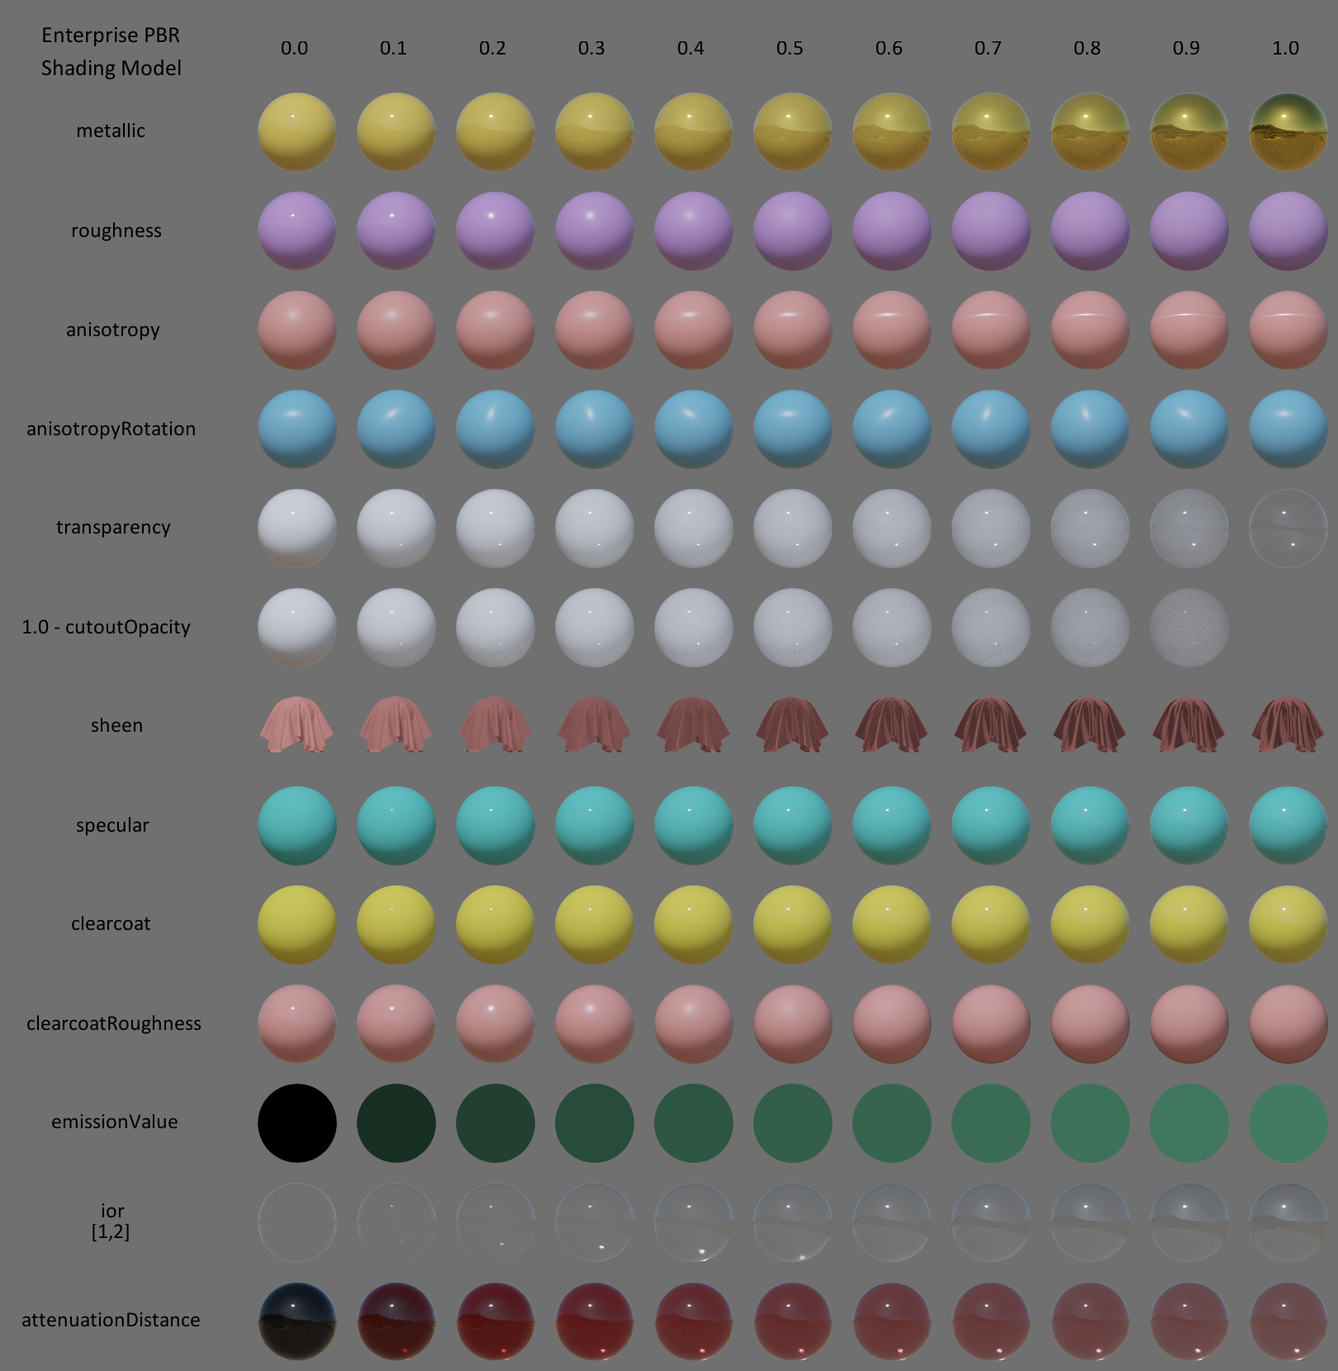
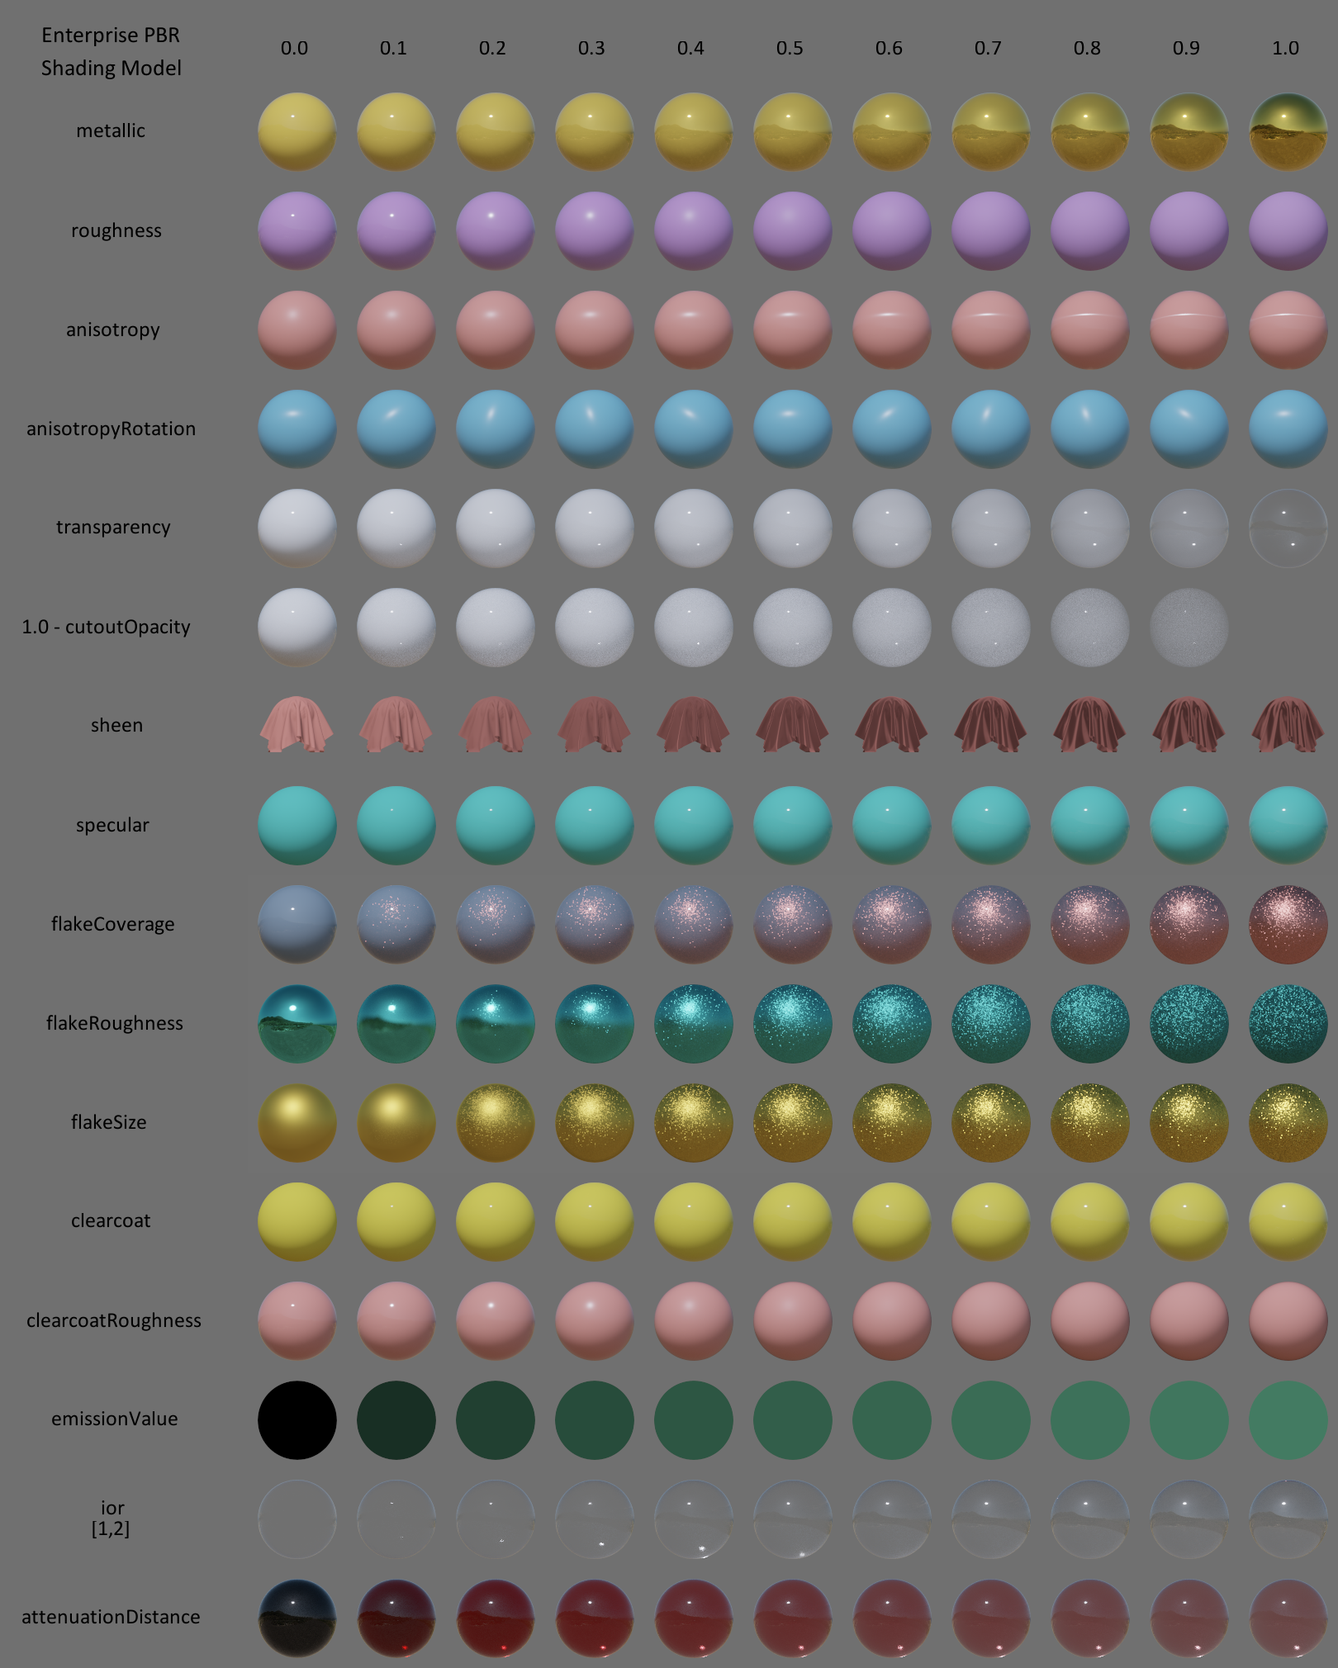
Added Flakes (WIP).

diff --git a/spec.md.html b/spec.md.html
@@ -245,6 +245,119 @@ $b$          | float         | 0       | 0-1    | Sheen (0 = none, 1 = full).
 
 ![Figure [sheen-parameters-fig]: Result for various values of sheen parameters.](img/params_sheen.png)
 
+Flakes
+------
+
+Some materials, such as car paint or grainy metals, exhibit shifting random patterns of bright sparkles or glints. These glints may suddenly appear or disappear if light or view direction changes. In car paints, for example, this phenomenon comes from small mirror-like flakes distributed in the material below its coating. This can be modeled with the flakes layer of the Enterprise PBR Shading Model.
+
+### Overview
+
+Our method is based on [#Jak14] and [#AK16] and some own ideas to make it perform well in a rasterizer setting. The common idea is to procedurally generate individual flakes instead of using a texture (e.g. a high resolution normal map). This reduces texture fetching by trading them for a bit of extra computation to generate the flake positions and orientations on the fly. Also the BRDF is not evaluated pointwise but instead is understood to return the integral over the whole pixel foot print (see Section 3.1 "Multiscale BRDFs" in [#Jak14]), thus allowing to efficiently account for the contribution of many flakes in one evaluation which results in positionally and temporally stable flakes without flickering.
+
+For stable and efficient handling of flakes the method requires approximation of pixel footprint on the directly visible surface which can be given by position and two vectors defining parallogramm in 3D space. Once we have the pixel footprint we can convert it to texture space, build and iterate the full list of flake positions and directions within the footprint and calculates the final radiance.
+
+Converting pixel footprint into texture space is done using triplanar mapping (for details see Section [Triplanar Mapping]). Additionally we also repeat the texture by wrapping coordinates of the footprint in [0, 1) range.
+
+### Parameters
+
+ Name        | Type          | Default | Range  | Description
+-------------|---------------|---------|--------|-------------
+$s_d$        | float         | 0.      | 0.-1.  | Flake coverage (0 = no flakes, 1 = only flakes).
+$s_s$        | float         | 0.      | 0.-1.  | Flake size (diameter) in mm.
+$\alpha_s$   | float         | 0.      | 0.-1.  | Roughness of distribution that controls flake orientation.
+$\rho_s$     | color         | 1.      | 0.-1.  | Flake color.
+[Table [flakes-parameters]: List of flakes parameters]
+
+![Figure [flakes-parameters-fig]: Result for various values of flakes parameters](img/params_flakes.png)
+
+### BRDF Evaluation
+
+Flakes are added to the base material using a weighted average of base and flakes layer. The flake coverage parameter controls the blending. Here the flake coverage parameter functions as a linear blend parameter (e.g. alpha) in a lerp between the base albedo $\rho$ and the flake color $\rho_s$.
+
+\begin{eqnarray}
+f_\text{flaky_base}(\mathbf{v},\mathbf{l}) &=& f_\text{base}(\mathbf{v},\mathbf{l}) + f_\text{flakes}(\mathbf{v},\mathbf{l}) \\ \\
+f_\text{base}(\mathbf{v},\mathbf{l}) &=& f(\mathbf{v},\mathbf{l}) \ (1 - s_d) \\
+f_\text{flakes}(\mathbf{v},\mathbf{l}) &=& \rho_s M_s(\mathbf{v},\mathbf{l}) s_d
+\end{eqnarray}
+
+The flake layer is an alpha blend between a stochastic flakes BRDF (see next section) and a smooth microfacet BRDF with the same roughness $\alpha_s$ and color $\rho_s$.
+
+\begin{eqnarray}
+M_s(\alpha_s,\mathbf{v},\mathbf{l}) &=& (1-b)M_\text{stoch}(\alpha_s, \mathbf{v},\mathbf{l}) + b\, M_\text{smooth}(\alpha_s, \mathbf{v},\mathbf{l}) \\
+M_\text{smooth}(\alpha_s,\mathbf{v},\mathbf{l}) &=& \frac{ D(\alpha_s, \mathbf{h}) G(\alpha_s, \mathbf{v}, \mathbf{l})}{4 (\mathbf{v}\cdot\mathbf{n})(\mathbf{l}\cdot\mathbf{n}) } \\
+b &=& \text{smoothstep}\left(\frac{N_\text{exp}-\text{blend_min}}{\text{blend_max}-\text{blend_min}}\right) \\
+N_\text{exp} &=& A_\text{footprint} N \\
+A_\text{footprint} &=& \lVert\mathbf{u}\times\mathbf{v}\rVert \\
+\text{smoothstep}(x) &=& y^2(3-2y) \quad \text{where}\quad y=\text{clamp}(x,0,1)
+\end{eqnarray}
+
+Here $A_\text{footprint}$ is the area of the pixel footprint (parallelogram) in texture space and $\mathbf{u},\mathbf{v}$ are its base vectors. $\mathbf{h}$ is the regular half vector $\left(=\left(\mathbf{v} + \mathbf{l}\right) / \left\Vert\mathbf{v}+\mathbf{l}\right\Vert\right)$.
+
+$M_\text{smooth}$ is the Cook-Torrance microfacet BRDF with the Fresnel term set to one.
+
+In the limit of high number of flakes the stochastic flakes BRDF should match the smooth microfacet BRDF. For performance reasons we evaluate only the smooth microfacet model when the number of expected flakes in the footprint $N_\text{exp}$ exceeds an internal fixed parameter $\text{blend_max}$. How this should be set depends on the hardware to guarantee best performance, but we had good results setting it to 64. $\text{blend_min}=1$. When $N_\text{exp}$ lies between $\text{blend_min}$ and $\text{blend_max}$ we return a blended mix between the stochastic flakes and the smooth microfacet BRDF. When $N_\text{exp}$ is below $\text{blend_min}$ we only evaluate the stochastic flakes BRDF.
+
+### Stochastic Flake BRDF Evaluation
+
+In accordance to [#Jak14] Section 3.1 the model is a Cook Torrance microfacet BRDF with two modifications. Instead of a smooth normal distribution function, the distribution function consists of a sum of procedurally generated flakes with specific positions and orientations, that have a nearly specular appearance, approximated by a cone BRDF. Secondly in the model the BRDF is integrated over the pixel footprint in texture space and over solid angle inside a cone around the light vector with a fixed low cone angle (we found $\gamma=7$ degree to be a good value), meaning that all flakes inside the pixel footprint whose orientation is close to the halfvector contribute to the result. In [#Jak14] this is called a multiscale BRDF, in contrast to a regular BRDF evaluated pointwise in texture and orientation space, which could only catch a single flake at maximum at each evaluation. The formula of the resulting multiscale BRDF we use in accordance to ([#Jak14], 3.1, formula (5)+(6)) is
+
+\begin{eqnarray}
+M_\text{stoch}(\alpha_s,\mathbf{v},\mathbf{l}) &=& \frac{ (\mathbf{v}\cdot\mathbf{h}) \hat{D}(A,\Omega_h) G(\alpha_s, \mathbf{v}, \mathbf{l})}{A_\text{footprint} N*2\pi(1-\cos(\gamma)) (\mathbf{v}\cdot\mathbf{n})(\mathbf{l}\cdot\mathbf{n}) } \\
+\hat{D}(A,\Omega_h) &=& \sum_{k=1}^N \mathbf{1}_{\Omega_h}(\mathbf{h}^k)\mathbf{1}_A(\mathbf{p}^k)
+\end{eqnarray}
+
+where $\mathbf{1}_A(\mathbf{p}^k)$ and $\mathbf{1}_{\Omega_h}(\mathbf{h}^k)$ are indicator functions, which are one when the $k$-th flake position is inside the pixel footprint and the $k$-th flake is oriented so that the reflected view direction is inside a cone with opening angle $2\gamma$. In effect the sum is counting the flakes which are in the footprint and oriented so that view reflects to the light direction within $\gamma$ degrees. $G(\alpha_s, \mathbf{v}, \mathbf{l})$ is the microfacet shadowing masking function (we use height correlated Smith). Compared to the classic Cook Torrance microfacet formula we omit the Fresnel term for simplicity and we gain a factor of $4(\mathbf{v}\cdot\mathbf{\omega}_h)$ to account for the change of variables from half vector direction to light direction in $\hat{D}(A,\Omega_h)$. Additionally we have three normalization factors in the denominator in the form of the pixel footprint area $A_\text{footprint}$, the total number of flakes $N$ and the cone solid angle $2\pi(1-\cos(\gamma))$ that are introduced by the multiscale BRDF integration over pixel footprint and solid angle in a cone around the light direction. $A_\text{footprint} N$ together can also be interpreted as the expected number of flakes inside the pixel footprint, which is needed in other parts as well.
+
+### Flake Generation
+
+To procedurally generate the flake positions we deviate from previous approaches (traversing a 4D structure and a multinomial stochastic process to distribute the flakes in [#Jak14] or traversing a quad tree with a normal approximation to a multinomial distribution for the flake count in [#AK16]) and use a much easier method that is well suited for the rasterizer:
+
+First we compute the number of flakes per area (in texture uv space assuming $1m^2$ for the unit square) as
+
+\begin{equation}
+N = \frac{s_d}{s_s^2}
+\end{equation}
+
+and then we distribute the $N$ flakes in a stratified grid over the texture space so that each grid cell contains the same (small) number of flakes (currently we use $N_\text{cell} = 4$ flakes per grid cell). This results in a grid resolution of
+
+\begin{equation}
+\text{seed_res} = \text{max}\left(4,  \left \lfloor \sqrt{ \frac{N}{N_\text{cell}} } \right \rfloor \right)
+\end{equation}
+
+which can be seen as the (virtual) seed texture resolution (the `max(4,...)` construct is there to make sure we don't hit zero resolution, the 4 is arbitrarily chosen).
+We use the [Tiny Encryption Algorithm](https://en.wikipedia.org/wiki/Tiny_Encryption_Algorithm) with six rounds as a hash function (see Section [TEA] for more information) to generate a random number generator seed for a linear congruential generator with the parameters
+
+\begin{eqnarray}
+r_0 &=& \text{TEA}((i+\text{seed_res})\;\text{mod}\;\text{seed_res}, (j+\text{seed_res})\;\text{mod}\;\text{seed_res}) \\
+r_{n+1} &\equiv& 1103515245 r_n + 12345 \quad(\text{mod}\; 2^{32})
+\end{eqnarray}
+
+Here we give seed pixel coordinates $i,j$ modulo seed_res to our hash functions to make the flake texture consistent w.r.t. uv space wrap around. The added offset of seed_res makes sure that we don't have to take modulo of a negative number, which in general would resultin a wrong wrap around behaviour (modulo of the unsigned twos complement instead of integers decreasing with steps of one).
+
+From the generated seed $r_0 = 4$ we generate four uniform random float numbers $u_{1...4}\in[0,1]$ per flake which are then used to generate the flake position and orientations.
+
+\begin{eqnarray}
+\mathbf{p}^k &=& \frac{1}{\text{seed_res}}\left(\begin{pmatrix}i\\j\end{pmatrix}+\begin{pmatrix}u^k_1\\u^k_2\end{pmatrix}\right) \\
+\mathbf{h}^k &=& \text{ggx_sample}(\mathbf{v}=(0,0,1), \alpha_s, \begin{pmatrix}u^k_3\\u^k_4\end{pmatrix})
+\end{eqnarray}
+
+where $i,j$ are the current (integer) row/column indices in the seed grid, which *can go outside the usual* $i,j\in\{0,1,\ldots,\text{seed_res}-1\}$ case, because pixel footprint parallelograms can protrude outside the seed pixel rectangle from their starting point. For the case of computing flake positions and later checking if they are inside of the pixel footprint they *should not be wrapped or clamped*. This makes the parallelogram test easier and avoids artifacts at the borders. $k\in\{0,1,\ldots,N_\text{cell}-1\}$ is the index for the current flake in the cell and $\mathbf{p}^k$, $\mathbf{h}^k$ are the $k$-th flake position and orientation, respectively. The orientations are sampled from a smooth microfacet normal distribution function, in our case GGX.
+
+### Counting Contributing Flakes
+
+Because we want to know which flakes are within the pixel foot print, it is necessary to calculate which grid cells are actually intersected by the pixel footprint first. Flake positions for those grid cells which are partially intersected by the footprint need to be checked explicitly against parallelogram. Those flakes inside a grid cell, which is fully contained by the footprint, don't require this extra check. For both checks we use the *unclamped* and *unwrapped* flake positions, which can go outside the original $u\in(0,1) \wedge v\in(0,1)$ uv-space. This makes the following parallelogram test easier and avoids border artifacts. Finally we generate the reflection direction for all the flakes within the paralellogram and count flakes which are within cone around light direction.
+
+\begin{eqnarray}
+  \mathbf{1}_A(\mathbf{p}^k) &=& \begin{cases} 1 & \begin{pmatrix}0\\0\end{pmatrix}\leq\begin{pmatrix}u_x&v_x\\u_y&v_y\end{pmatrix}^{-1}\cdot\begin{pmatrix}p_x^k-f_x\\p_y^k-f_y\end{pmatrix} \leq \begin{pmatrix}1\\1\end{pmatrix} \\ 0 & \text{otherwise} \end{cases} \\
+  \mathbf{1}_{\Omega_h}(\mathbf{v}, \mathbf{l}, \mathbf{h}^k) &=& \begin{cases} 1 & \text{dot}(\mathbf{r},\mathbf{l}) > \cos(\gamma) \\ 0 & \text{otherwise} \end{cases} \quad \text{where} \quad \mathbf{r}=2 \text{dot}(\mathbf{v}, \mathbf{h}^k) \mathbf{h}^k - \mathbf{v}
+\end{eqnarray}
+
+where $\mathbf{f},\mathbf{u},\mathbf{v}$ are the origin and two vectors which span the footprint parallelogram and $\mathbf{p}^k$ is the $k$-th flake position in texture space. Since flakes only contribute when they pass both checks (inside footprint and inside cone), we can exchange the order of the checks, which can benefit performance, because the cone test might be less costly than testing against the footprint. We recommend to use rasterization (e.g scan line fill algorithm) to efficiently determine grid cells which are partially or fully intersected with parallelogram.
+
+![Figure [flakes-grid-footprint]: Pixel Footprint Rasterization](img/flakes_grid_footprint.png)
+
+For more details and code examples, see Section [Flakes Implementation Details].
+
 Clearcoat
 ---------
 
@@ -393,6 +506,11 @@ We recommend to display the parameters to users in the UI in the following order
   - Sheen
   - Specular
   - Specular Tint
+* Flakes
+  - Flake Coverage
+  - Flake Color
+  - Flake Size
+  - Flake Roughness
 * Coating
   - Clearcoat
   - Clearcoat Roughness
@@ -440,6 +558,65 @@ f_4(\mathbf{v},\mathbf{l}) &=& B(\mathbf{v}, \mathbf{l}) &+& M_r(\mathbf{v},\mat
 \end{eqnarray}
 
 ![Figure [energycomp-plastic_furnace]: Four different methods $f_1 ... f_4$ to combine diffuse (Lambert) and specular (microfacet reflection) component for roughness 0 (top row) and 1 (bottom row). $f_1$ is not energy-conserving, at grazing angles and for multiple bounces the white furnace test fails. The same happens for $f_2$ if roughness is 0. $f_3$, on the other hand, is not energy-preserving, resulting in darkness at grazing angles. $f_4$ is energy-conserving and (almost) energy-preserving. The slight darkening at grazing angles comes from the imperfect approximations we use for performance reasons. This becomes worse for multiple bounces.](img/energycomp_plastic_furnace.png)
+
+Flakes Implementation Details
+-----------------------------
+
+### TEA
+
+~~~~~~~~~~~~~~~~~~~~~~~~~~~~~~~~~~~
+// Tiny Encryption Algorithm (TEA)
+(int, int) encrypt_tea(int v0, int v1, int4 xor_key, static int rounds) {
+  tea_key = int4(0xa341316c, 0xc8013ea4, 0xad90777d, 0x7e95761e);
+  sum     = 0;
+  delta   = 0x9e3779b9;
+  key     = tea_key ^ xor_key;
+
+  for (i = 0; i < rounds; i += 1) {
+    sum += delta;
+    v0 += ((v1 << 4) + key.x) ^ (v1 + sum) ^ ((v1 >> 5) + key.y);
+    v1 += ((v0 << 4) + key.z) ^ (v0 + sum) ^ ((v0 >> 5) + key.w);
+  }
+  return (v0, v1);
+};
+(_, lcg_seed) = encrypt_tea(915927258,1547188273, int4(i,j,0,0), 6);
+~~~~~~~~~~~~~~~~~~~~~~~~~~~~~~~~~~~
+
+### Triplanar Mapping
+
+~~~~~~~~~~~~~~~~~~~~~~~~~~~~~~~~~~~
+triplanar_mapping = function(float3 pos, float3 p_ddx, float3 p_ddy, float3 normal, float scale) {
+	if (abs(n.x) >= abs(n.y) && abs(n.x) >= abs(n.z)) {
+    uv = float2(-p.z,-p.y);
+    uv_ddx = float2(-p_ddx.z, -p_ddx.y);
+    uv_ddy = float2(-p_ddy.z, -p_ddy.y);
+  } else if (abs(n.y) >= abs(n.z)) {
+    uv = float2(p.x, p.z);
+    uv_ddx = float2(p_ddx.x, p_ddx.z);
+    uv_ddy = float2(p_ddy.x, p_ddy.z);
+  } else {
+    uv = float2(p.x,-p.y);
+    uv_ddx = float2(p_ddx.x, -p_ddx.y);
+    uv_ddy = float2(p_ddy.x, -p_ddy.y);
+  }
+  return (fract(float2(scale) * uv)
+         ,float2(scale) * uv_ddx
+         ,float2(scale) * uv_ddy );
+};
+~~~~~~~~~~~~~~~~~~~~~~~~~~~~~~~~~~~
+
+The triplanar mapping takes the normal (in world coordinates) and the shading point position as parameters. It also takes the derivatives of the shading point with respect to camera image pixel coordinates. In a GI renderer usually the pixel footprint is computed by starting from a camera ray with differentials of pixel width/height for the camera ray origin, which is then propagated forward through AutoDiff computation rules through the shading point interpolation code to get a shading point with differentials included. In glsl (or similaraly for rasterizers in general) one would use `float3 p_ddx = dFdx(pos);`, `float3 p_ddy = dFdy(pos);` to compute them.
+
+The reason to do the `dFdx` computation on the shading point instead of the uv coordinates after triplanar mapping is, that the shading point is continuous, which produces correct differentials over the whole surface, whereas if we did it after the triplanar mapping (and the wrapping of `u`/`v` coordinates through `fract`) we would need special case handling for the borders of uv space or live with border artifacts because of discontinuities in the differentials.
+
+### GI Implementation details
+
+For a GI implementation it's advisable to have some form of caching of the generated flakes in the footprint. This allows for efficient sampling of the BRDF. In principle smooth microfacet BRDF sampling also works but is not efficient.
+
+### IBL in Rasterizer
+
+We use preconvolved IBL lighting in rasterizer which requires only one environment texture lookup. Handling flake reflections under environment lighting in a stable way is a hard problem because individual flakes have different directions which means that the pixel BRDF lobe can have a very difficult shape. Taking multiple samples in order to sample the BRDF lobe is too costly and might still give some flickering artifacts so instead we decided to keep the naive preconvolved IBL method which does only one environment texture lookup in the main direction of the BRDF lobe and we handle all flakes inside the BRDF evaluation. This gives very stable and smooth results during animations and still remains fast. The limitation of this method is that it doesn't account for light which contributes from the side of the BRDF so it doesn't have a strong glittering effect. Artists can still achieve strong glittering effects and stable flake appearance if they combine IBL with directional light(s).
+
 
 Bibliography
 ============

diff --git a/user_guide.md.html b/user_guide.md.html
@@ -14,6 +14,7 @@ The Enterprise PBR Shading Model (DSPBR) is a material model for physically base
 Conceptually, the Enterprise PBR Shading Model is organized in different components that cover different aspects of a material.
 
 * The _Base_ component contains parameters common to most materials.
+* The _Flakes_ component entails parameters for specifying shifting random patterns of bright sparkles or glints commonly found in metallic car paints and grainy metals.
 * The _Clearcoat_ component offers parameters describing a coating of a material like the clear coat of a car paint.
 * The _Emission_ component contains parameters for specifying light radiation properties of a surface.
 * The _Volume_ component features parameters for describing the volumetric parameters of (partially) transparent materials.
@@ -106,6 +107,36 @@ If you want pure diffuse materials, maybe for simple visualizations in engineeri
 _Specular Tint_ is an additional color parameter that tints the specular reflection of non-metallic surfaces. At grazing angles, the reflection still blends to white, and the parameter has not effect on metals.
 
 Be careful with this parameter, it is not physically-plausible and can easily be abused to create materials that do not exist in the real world. However, certain non-photorealistic art styles may require this kind of flexibility.
+
+Flakes Component
+----------------
+
+Some materials, such as car paint or grainy metals, exhibit shifting random patterns of bright sparkles or glints. These glints may suddenly appear or disappear if light or view direction changes. In car paints, for example, this phenomenon comes from small mirror-like flakes distributed in the material below its coating. This can be modeled with the _Flakes_ component of the Enterprise PBR Shading Model.
+
+### Flake Coverage
+
+_Flake Coverage_ specifies how densely the flakes are packed. At a value of 1, flakes cover the surface entirely.
+
+### Flake Color
+
+Metallic flakes show a specific color which can be specified via _Flake Color_. It is usually determined by the pigments in the binder containing the aluminium flakes.
+
+!!! Tip: Specifying plausible Flake Color
+    To specify a realistic metallic car paint, choose a flake color whose chromaticity is close to the chromaticity of the albedo, which determines the color of the base coat of the car paint.
+
+### Flake Size
+
+Real-world flakes in car paints have a typical size of few to tens of micrometers. _Flake size_ allows specifying the size / diameter of flakes in mm.
+
+!!! Tip: Modeling large scale flakes
+    It is recommended to model really large flakes via a normal and potentially a roughness map instead of via flakes.
+
+### Flake Roughness
+
+Metallic flakes typically have a silver-dollar geometry, meaning that they resemble coins. The sparkle effect mostly originates from light reflecting off the faces of the coin. The more aligned the normals of the flake faces are, the more distinct the highlight from a directional light like the sun looks. _Flake Roughness_ specifies the distribution of flake normals: the smaller the value, the more the flakes are aligned with the surface normal of the geometry. The higher the value, the more they deviate from it.
+
+!!! Tip: Suitable value for Flake Roughness
+    Realistic metallic car paints typically have a _Flake Roughness_ of around 0.1.
 
 Clearcoat Component
 -------------------
